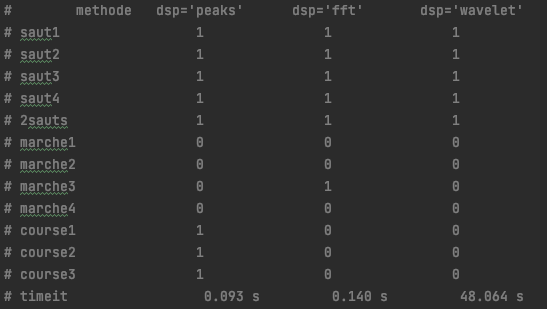
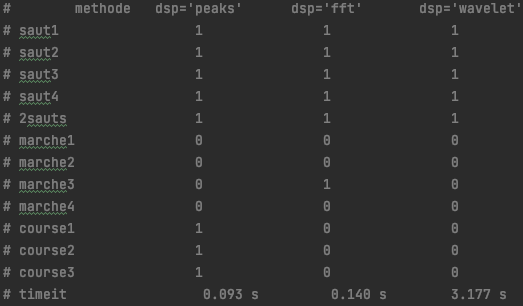
amelioration du pas de temps de la methode wavelet

diff --git a/libertyrider.py b/libertyrider.py
@@ -23,6 +23,8 @@
 # 29.02.22 15h implemetation fonction csv avec methode wavelet
 # 29.02.22 17h réalisation des mesures timeit
 # 29.02.22 18h terminé
+# 03.03.22 14h amélioration de l'algorithme  dsp 'wavelet' en augmentant le pas de la sliding windows
+# de 1 à 10. L'algorithme prend 20 fois moins de temps (on passe de timeit 50 s à 3 s)
 
 ################################################
 # Méthodologie proposée:
@@ -157,6 +159,7 @@
 # la complexité de la méthode fft varie en O(n log n),
 # la complexité de la méthode wavelet varie en O(n)
 # mais on utilise une "sliding window" tres gourmande en ressource
+# pour interpréter les résultats
 
 # ###############################################
 # Résultats
@@ -182,7 +185,7 @@
 # course1               1               0               0
 # course2               1               0               0
 # course3               1               0               0
-# timeit                 0.093 s         0.140 s         48.064 s
+# timeit                 0.093 s         0.140 s        3.177 s
 #
 # dataset2
 # 13 enregistrements de saut d'environ 10 s
@@ -201,7 +204,7 @@
 # les signaux périodiques produisent d'importants pics en transformés de fourrier
 #
 # la méthode wavelet détecte tous les sauts des deux datasets et ne détecte pas de
-# sauts pour les marches et les courses mais prend 500 fois plus de temps que
+# sauts pour les marches et les courses mais prend environ 30 fois plus de temps que
 # les deux autres méthodes.
 
 import pandas as pd
@@ -213,6 +216,7 @@ import argparse
 import sys
 import pywt
 import detecta
+import timeit
 
 ############################################################
 # Traitement du signal (Digital signal processing)
@@ -339,7 +343,7 @@ def jumps_detect_csv(csv_folder, dsp='peaks'):
             a = pd.DataFrame(data=coeff)
             a = a.abs()
             sum_list = []
-            for i in range(len(a.columns) - 100):
+            for i in np.arange(0,len(a.columns) - 100,20):
                 # calibration duree signal 100 centisecondes
                 sliding_column_list = [k for k in range(i, i + 100)]
                 sum = (
@@ -392,8 +396,8 @@ if __name__ == '__main__':
     # plot_signal(i, 'dsp') 'peaks' ou 'wavelet' ou 'fft'
 
     # timeit
-
-    # f="jumps_detect_csv('dataset2','wavelet')"
+    #
+    # f="jumps_detect_csv('dataset2/jumps','wavelet')"
     # t1 = timeit.Timer(f, "from __main__ import jumps_detect_csv")
     # print("jump_detect ran:", t1.timeit(number=1), "s")
 
